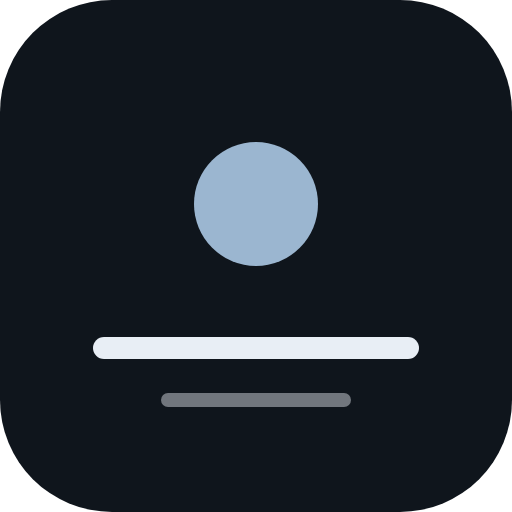
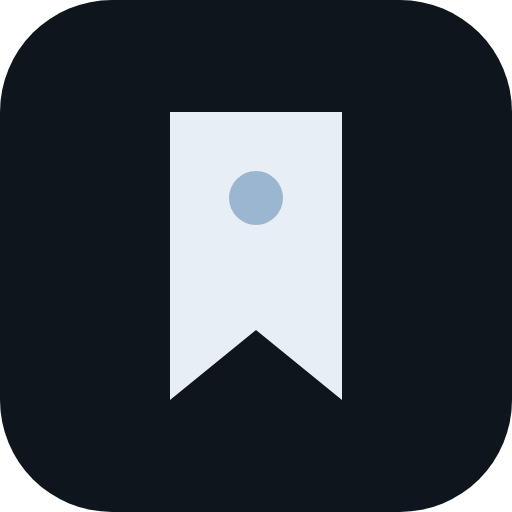
feat: 站点图标重做为「书签」方案
- 深蓝圆角方标 + 浅色书签 + 品牌蓝点，取代上一版「夜光」
- 重新渲染 favicon.png(192) / img/icon-192.png / img/icon-512.png（圆角外透明）、apple-touch-icon.png(180，不透明)
- SW 缓存版本 v12 → v13；更新日志口径同步

Changed region(s): [[0.1562, 0.2188, 0.8438, 0.8125]]

diff --git a/public/service-worker.js b/public/service-worker.js
@@ -1,4 +1,4 @@
-const CACHE_NAME = 'merisk-blog-v12';
+const CACHE_NAME = 'merisk-blog-v13';
 const APP_SHELL = [
   '/',
   '/index.html',
